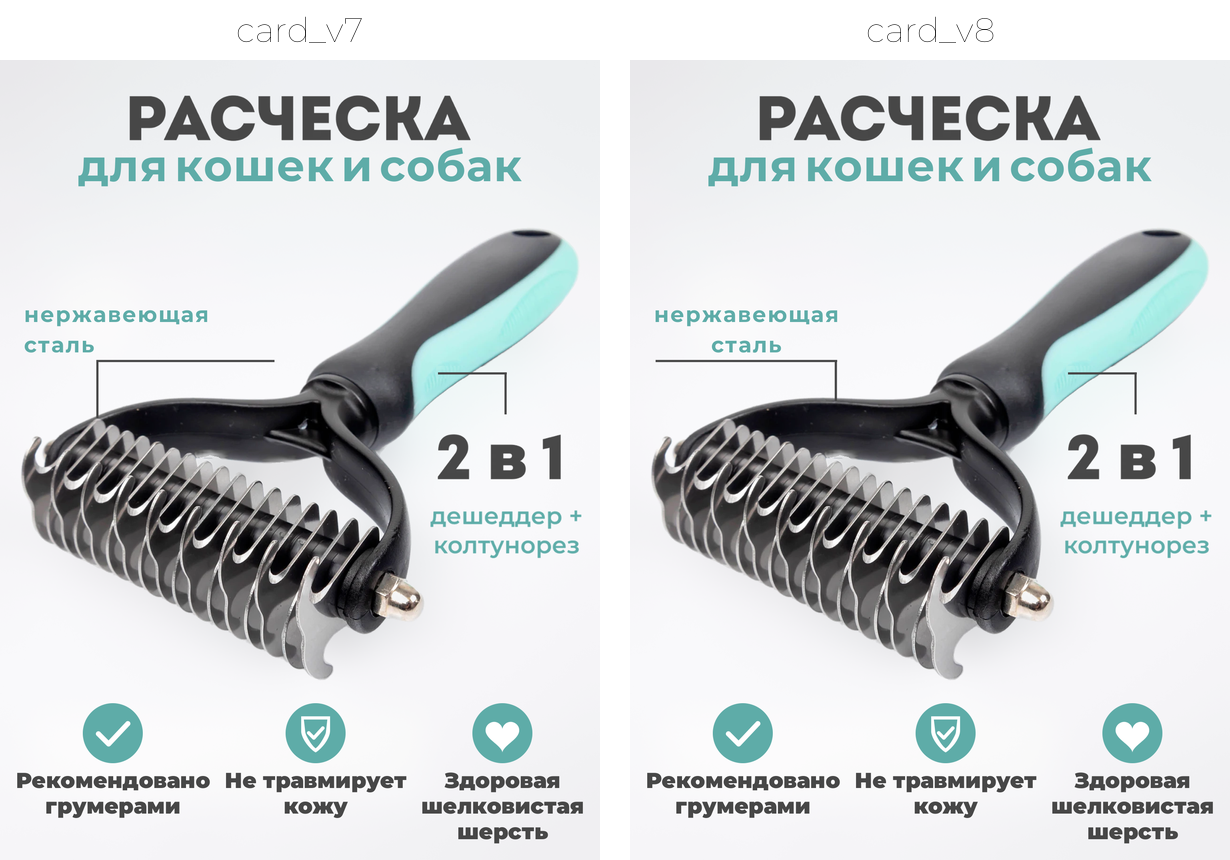
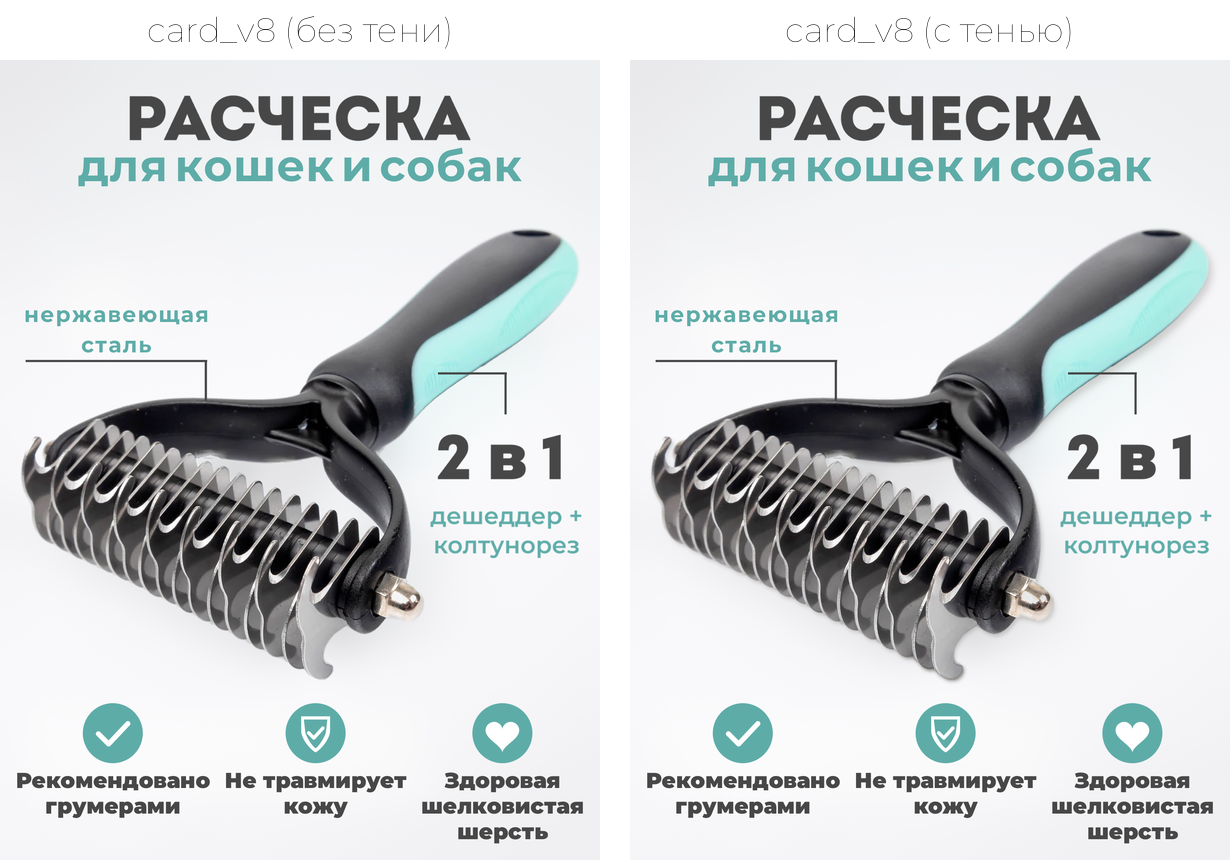
v8: add soft contour shadow and contact shadow to comb
Claude-Session: https://claude.ai/code/session_01EEZRyrXtYH98EXHQFUmBfu

diff --git a/card_v8.py b/card_v8.py
@@ -30,6 +30,20 @@ SUB_SIZE = 79 * 1.18 * 1.18  # ещё +18% к v3–v5 (93 → 110)
 SUB_SPACE = 0.45           # ширина пробела в подзаголовке (1.0 = обычная)
 SUB_PROD_GAP = 40          # мин. зазор подзаголовок ↔ верх расчёски
 MARGIN = 40                # мин. отступ от краёв карточки
+
+# Тень расчёски (свет слева сверху)
+SHADOW = True
+SHADOW_COLOR = "#6B6560"   # тёплый серый
+SHADOW_OPACITY = 0.27
+SHADOW_BLUR_HANDLE = 18    # px, у ручки
+SHADOW_BLUR_BLADES = 9     # px, у лезвий
+SHADOW_OFF_HANDLE = (9, 14)   # вправо, вниз (ручка выше над фоном — смещение больше)
+SHADOW_OFF_BLADES = (4, 7)
+SPLIT_Y = 0.42             # доля высоты товара: выше — «ручка», ниже — «лезвия» (плавный переход)
+CONTACT_OPACITY = 0.50
+CONTACT_BLUR = 8           # px
+CONTACT_OFFSET = (2, 4)
+CONTACT_ZONE = 0.07        # нижние 7% высоты товара — точки касания
 PROD_TOP = 420             # ниже, чем в v5 (400)
 PROD_CX = 750
 
@@ -257,6 +271,21 @@ def main():
     noise = cv2.GaussianBlur(noise, (0, 0), 0.6)
     out += (noise / noise.std() * sigma)[..., None]
 
+    if SHADOW:
+        def shifted(a, off, blur):
+            M_ = np.float32([[1, 0, off[0]], [0, 1, off[1]]])
+            return cv2.GaussianBlur(cv2.warpAffine(a, M_, (w, h)), (0, 0), blur / 2)
+        yy = np.arange(h, dtype=np.float32)[:, None]
+        ptop, pbot = ys.min(), ys.max()
+        ph = pbot - ptop
+        wb = np.clip((yy - (ptop + SPLIT_Y * ph)) / (0.15 * ph) + 0.5, 0, 1)   # 0 = ручка, 1 = лезвия
+        sh_h = shifted(A2 * (1 - wb), SHADOW_OFF_HANDLE, SHADOW_BLUR_HANDLE)
+        sh_b = shifted(A2 * wb, SHADOW_OFF_BLADES, SHADOW_BLUR_BLADES)
+        low = A2 * np.clip((yy - (pbot - CONTACT_ZONE * ph)) / (0.03 * ph), 0, 1)
+        sh_c = shifted(low, CONTACT_OFFSET, CONTACT_BLUR)
+        sa = np.clip((sh_h + sh_b) * SHADOW_OPACITY + sh_c * CONTACT_OPACITY, 0, 0.6)
+        out = lerp(out, hex2rgb(SHADOW_COLOR), sa)
+
     occ = np.zeros((h, w), np.float32)                   # маска всех надписей
 
     # заголовок
@@ -430,11 +459,11 @@ def main():
     cw = 600
     ch = round(h * cw / w)
     cmp_ = Image.new("RGB", (cw * 2 + 30, ch + 60), "white")
-    cmp_.paste(Image.open(OUT_DIR / "card_v7.png").convert("RGB").resize((cw, ch), Image.LANCZOS), (0, 60))
+    cmp_.paste(Image.open(OUT_DIR / "card_v8_noshadow.png").convert("RGB").resize((cw, ch), Image.LANCZOS), (0, 60))
     cmp_.paste(res.resize((cw, ch), Image.LANCZOS), (cw + 30, 60))
     fd = ImageFont.truetype(str(pc.FONT_PATH), 34)
-    ImageDraw.Draw(cmp_).text((cw // 2, 30), "card_v7", font=fd, fill=(40, 40, 40), anchor="mm")
-    ImageDraw.Draw(cmp_).text((cw + 30 + cw // 2, 30), "card_v8", font=fd, fill=(40, 40, 40), anchor="mm")
+    ImageDraw.Draw(cmp_).text((cw // 2, 30), "card_v8 (без тени)", font=fd, fill=(40, 40, 40), anchor="mm")
+    ImageDraw.Draw(cmp_).text((cw + 30 + cw // 2, 30), "card_v8 (с тенью)", font=fd, fill=(40, 40, 40), anchor="mm")
     cmp_.save(OUT_DIR / "card_v8_compare.png")
 
     print(f"контраст подписей {contrast(cap_col, B[1800, 750]):.2f}:1, "

diff --git a/README.md b/README.md
@@ -72,3 +72,6 @@ python3 card_v8.py card.png output
 
 Горизонталь ровно под «нержавеющая», изгиб вниз на правом конце, «сталь» по центру. Остальное как в v7.
 Результат: `output/card_v8.png`, сравнение `output/card_v8_compare.png`.
+
+v8 с тенью: `SHADOW = True` в `card_v8.py` (тёплый серый #6B6560, 27%, размытие 18 px у ручки и 9 px у лезвий,
+контактная 8 px под нижними точками). Версия без тени — `output/card_v8_noshadow.png`.
